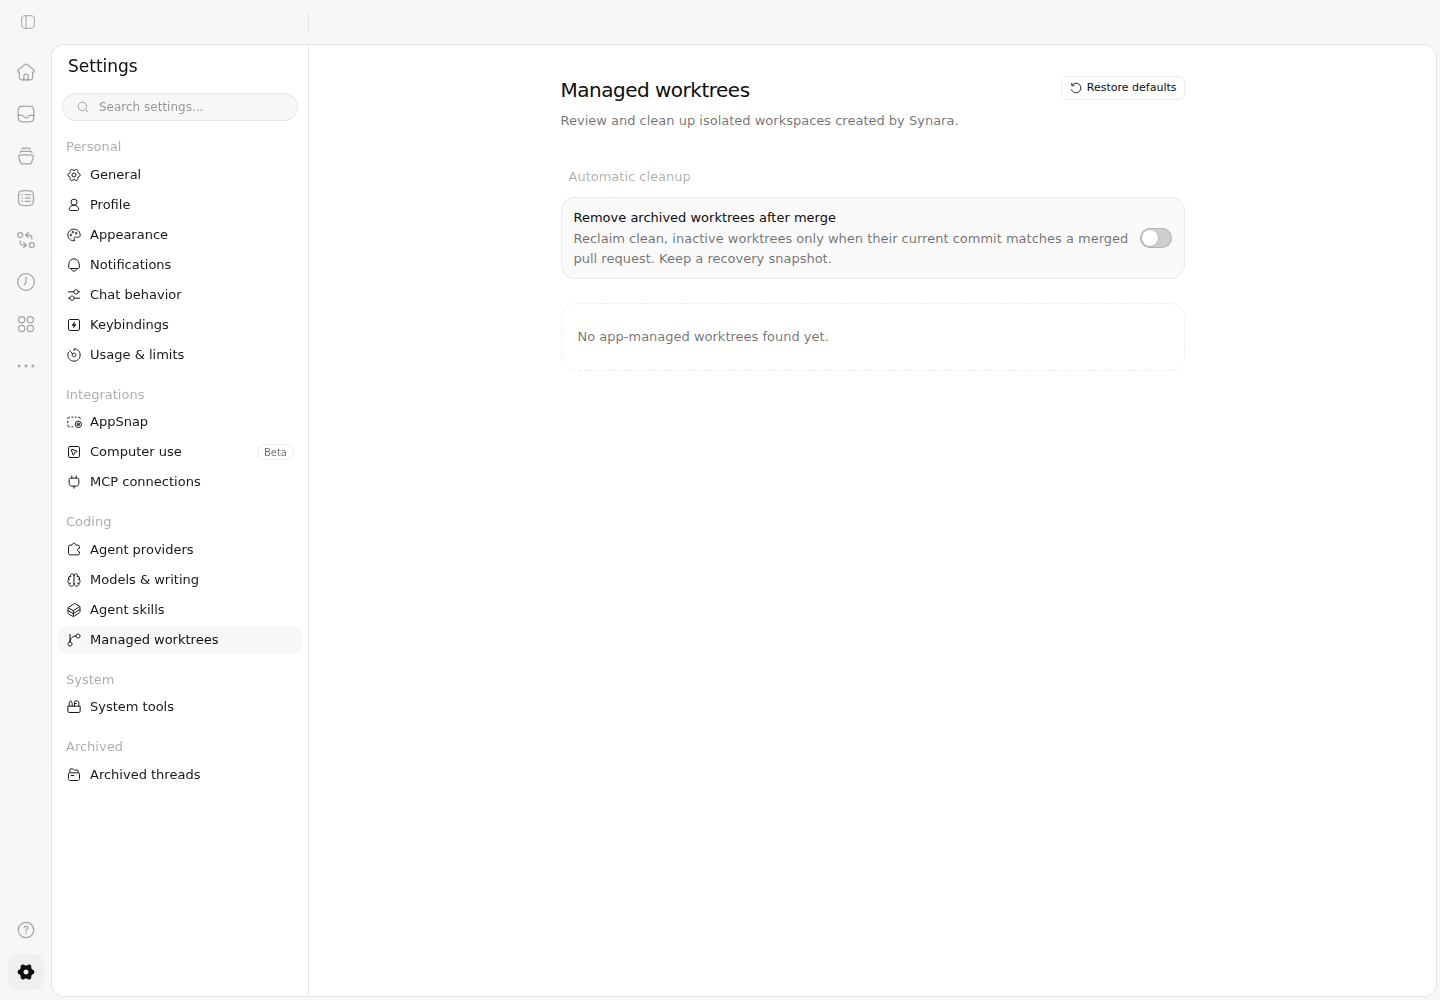
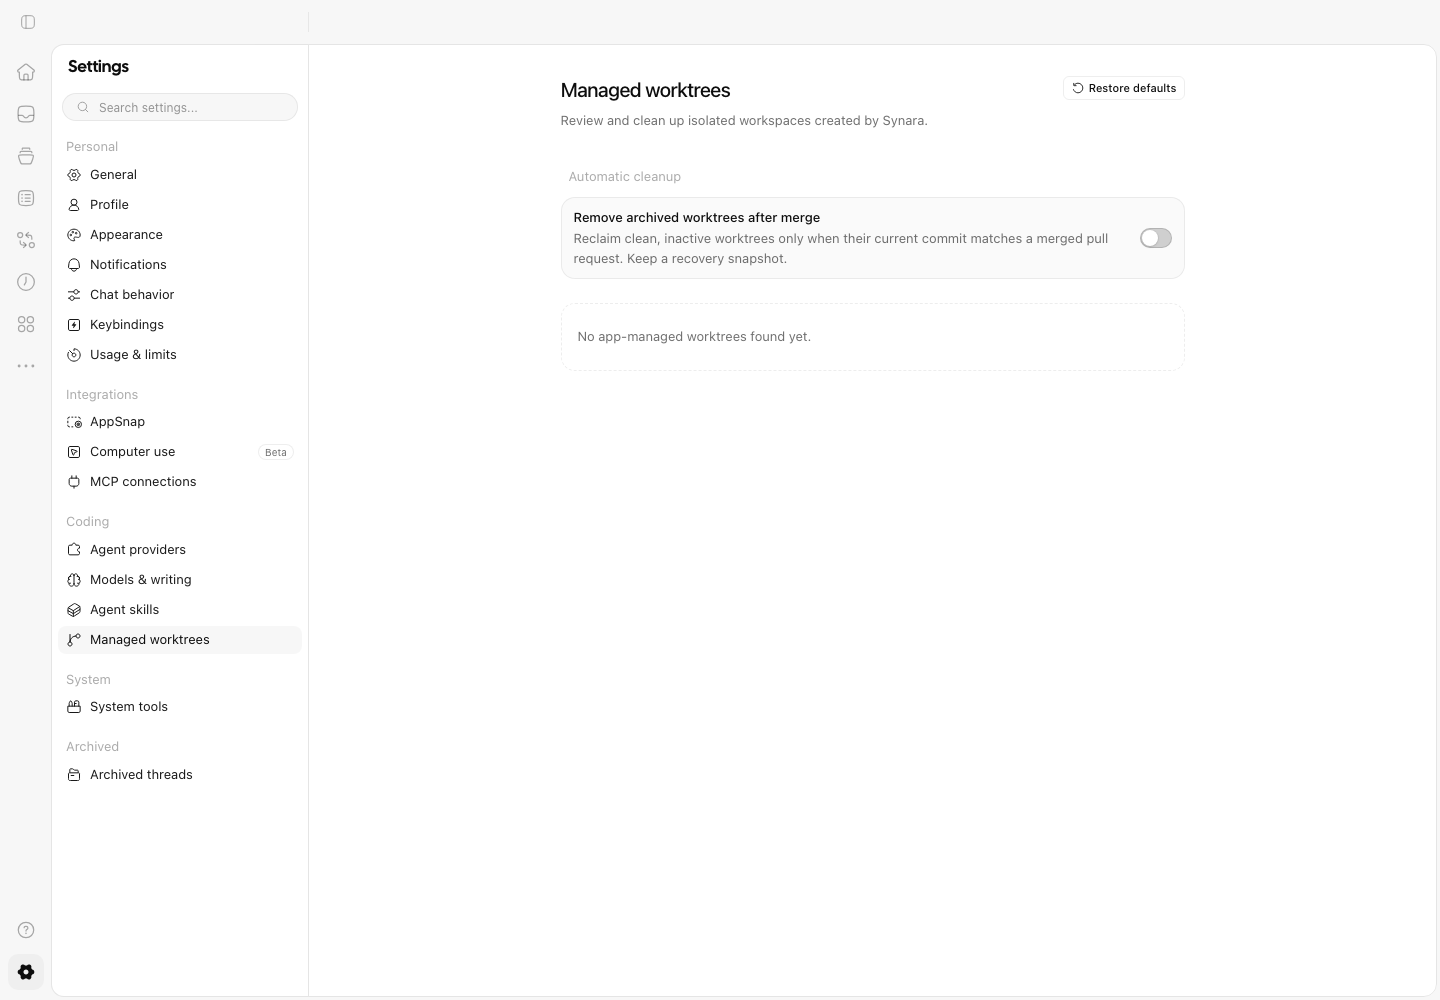
docs(worktrees): refresh production settings verification

diff --git a/docs/verification/worktree-settings-real.md b/docs/verification/worktree-settings-real.md
@@ -1,13 +1,11 @@
-# Production-app worktree settings acceptance
+# Production worktree settings verification
 
-Built from tree `bc1cf76b24f2fb862d9dd3e609fe4ffcca5694f1` (head `02cabbcbb69aee73c1915a2161f17010400df56a`). Chromium drives the normal app; the provider settings are disabled and no NativeApi is replaced. The check verifies default off, real settings-file persistence, reload retaining on, and persistence after reverting off. The PNGs show the actual settings page with empty inventory in both states.
+The production app at `c19986ee0` was driven through actual Chromium in a disposable home on 12 October 2026. Every provider was disabled; no NativeApi was replaced. The test passed default-off, real settings-file persistence, reload retaining on, and reverting off. The adjacent default/enabled PNGs are from that run.
 
-Run after building web and server, from the repository root:
+After building web and server, run from the repository root:
 
 ```sh
-SYNARA_CHROMIUM_PATH=/path/to/chromium node docs/verification/worktree-settings-real-check.mjs
+node docs/verification/worktree-settings-real-check.mjs
 ```
 
-Actual merged cleanup is separately verified by `managedWorktrees.live.test.ts` and the [passing native Git/live GitHub workflow](https://github.com/Emanuele-web04/synara/actions/runs/38166682691). It uses real GitHub metadata, a native locked-worktree failure and retry, recovery snapshot verification, and native branch retention. The settings screenshots alone are not evidence of file removal.
-
-After integrating main `52f06318fdb3c0b4b310a8d55d0083cba0bde1a0`, production web and CLI were rebuilt and this same actual-app persistence flow passed again. The default and enabled PNGs plus raw output now show the combined code. All 66 focused cleanup/Git/SQLite tests pass, including both newly integrated history checks and the cleanup delivery regression. Native managed cleanup also passes on head `81e3a917aa53c09053d0df15f070064c53fa5d33` in run [38175017444](https://github.com/Emanuele-web04/synara/actions/runs/38175017444).
+The separate `SYNARA_LIVE_GITHUB=1 bun run --cwd apps/server test src/managedWorktrees.live.test.ts` also passed against native Git and live GitHub metadata, including locked removal refusal, snapshot preservation, retry, and retained branches. The settings screenshots alone do not prove file removal.
